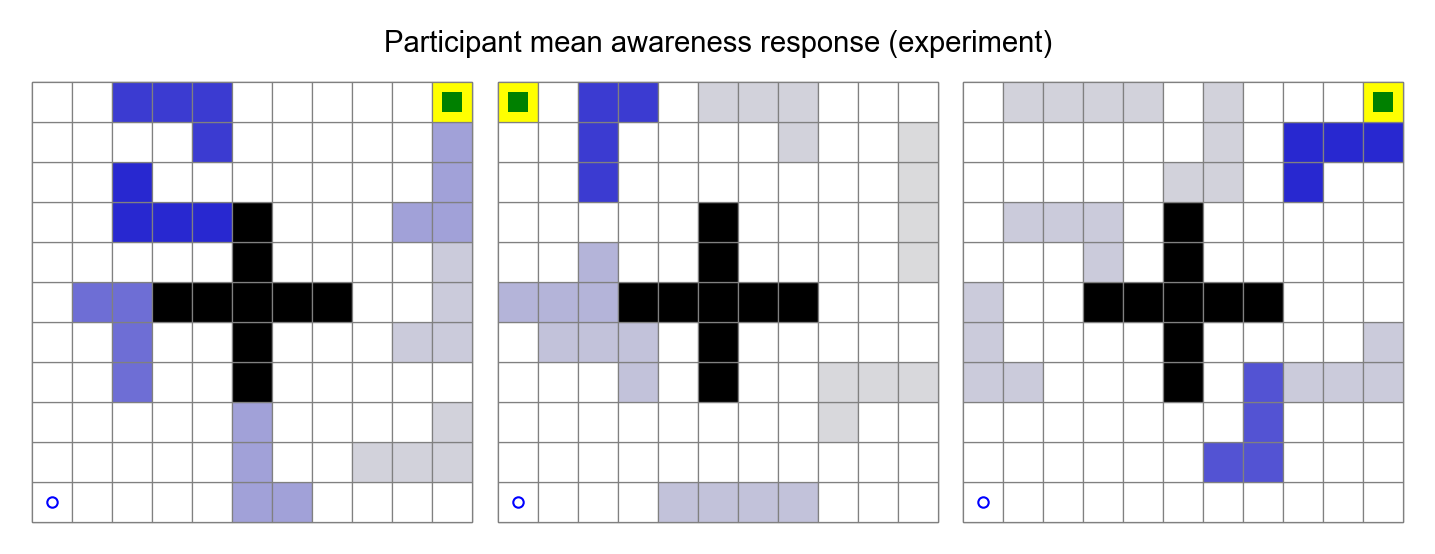
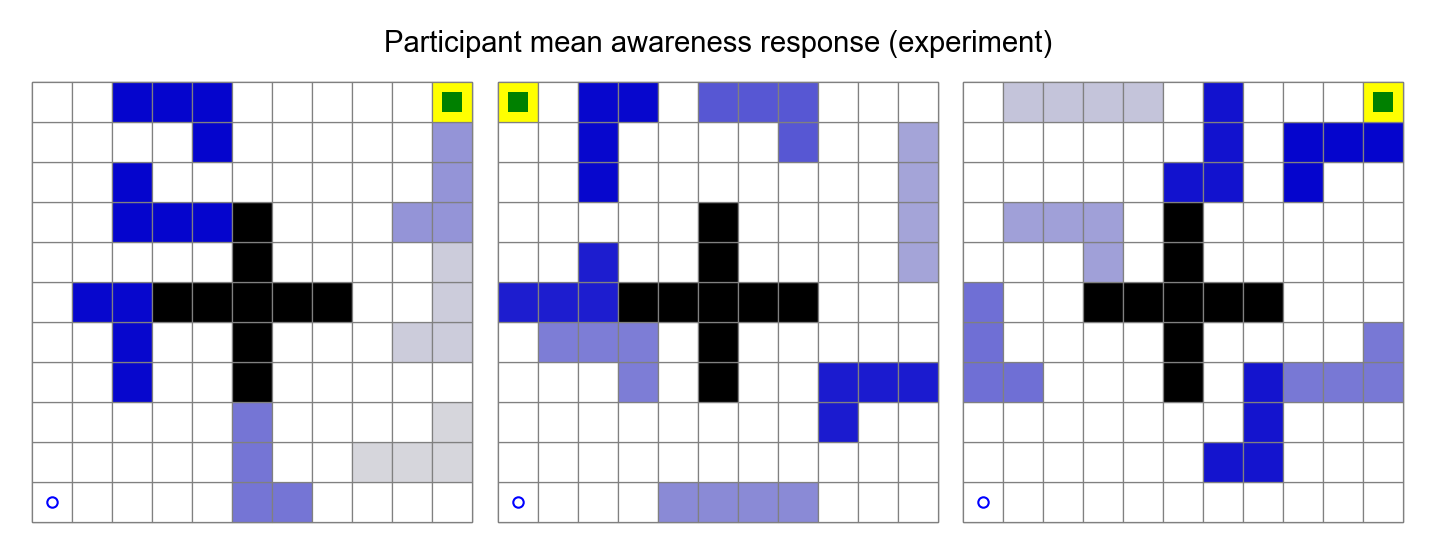
finish up project and push re-run changes

diff --git a/writeup/ho2022_replication_report.html b/writeup/ho2022_replication_report.html
@@ -57,6 +57,7 @@ ul.task-list li input[type="checkbox"] {
   <li><a href="#procedure" id="toc-procedure" class="nav-link" data-scroll-target="#procedure">Procedure</a></li>
   <li><a href="#analysis-plan" id="toc-analysis-plan" class="nav-link" data-scroll-target="#analysis-plan">Analysis Plan</a></li>
   <li><a href="#differences-from-original-study" id="toc-differences-from-original-study" class="nav-link" data-scroll-target="#differences-from-original-study">Differences from Original Study</a></li>
+  <li><a href="#methods-addendum-post-data-collection" id="toc-methods-addendum-post-data-collection" class="nav-link" data-scroll-target="#methods-addendum-post-data-collection">Methods Addendum (Post Data Collection)</a></li>
   </ul></li>
   <li><a href="#results" id="toc-results" class="nav-link" data-scroll-target="#results">Results</a>
   <ul class="collapse">
@@ -156,12 +157,17 @@ ul.task-list li input[type="checkbox"] {
 <section id="differences-from-original-study" class="level3">
 <h3 class="anchored" data-anchor-id="differences-from-original-study">Differences from Original Study</h3>
 <p>The study will be exactly the same, with the exception of a separate random sample of participants recruited on Prolific and a separate consent form.</p>
-<!-- ### Methods Addendum (Post Data Collection) -->
-<!-- You can comment this section out prior to final report with data collection. -->
-<!-- #### Actual Sample -->
-<!--   Sample size, demographics, data exclusions based on rules spelled out in analysis plan~~ -->
-<!-- #### Differences from pre-data collection methods plan -->
-<!--   Any differences from what was described as the original plan, or “none”. -->
+</section>
+<section id="methods-addendum-post-data-collection" class="level3">
+<h3 class="anchored" data-anchor-id="methods-addendum-post-data-collection">Methods Addendum (Post Data Collection)</h3>
+<section id="actual-sample" class="level4">
+<h4 class="anchored" data-anchor-id="actual-sample">Actual Sample</h4>
+<p>We ended up recruiting a sample of 100 participants. After applying data exclusions from rules spelled out in the analysis plan, we ended up with a sample size of 88 participants.</p>
+</section>
+<section id="differences-from-pre-data-collection-methods-plan" class="level4">
+<h4 class="anchored" data-anchor-id="differences-from-pre-data-collection-methods-plan">Differences from pre-data collection methods plan</h4>
+<p>none.</p>
+</section>
 </section>
 </section>
 <section id="results" class="level2">
@@ -660,19 +666,10 @@ def get_exp1_at():
         if c1 != c2:
             assert not all(exp1_at[c1] == exp1_at[c2])
     return exp1_at</code></pre>
-<!-- Data preparation following the analysis plan. -->
-<!-- ```{r include=F} -->
-<!-- ### Data Preparation -->
-<!-- #### Load Relevant Libraries and Functions -->
-<!-- #### Import data -->
-<!-- #### Data exclusion / filtering -->
-<!-- #### Prepare data for analysis - create columns etc. -->
-<!-- ``` -->
 </section>
 <section id="confirmatory-analysis" class="level3">
 <h3 class="anchored" data-anchor-id="confirmatory-analysis">Confirmatory analysis</h3>
 <p>The analysis code can be found <a href="https://github.com/markkho/value-guided-construal/blob/main/analyses/exp-1.ipynb">here</a>.</p>
-<p><em>Side-by-side graph with original graph is ideal here</em></p>
 <p><span class="math inline">\(\chi^2\)</span> test for independence:</p>
 <pre><code>from itertools import product
 import json
@@ -711,8 +708,8 @@ pval = analysisutils.pval_to_string(pval)
 exp1_chi2_res = f"$\chi^2({dof}, N={len(exp1_means)})={chi2:.2f}$, $p {pval}$, effect size $w = {chi2_effectsize_w:.2f}$"
 
 print(exp1_chi2_res)</code></pre>
-<p>Output (pilot B):</p>
-<pre><code>$\chi^2(1, N=84)=4.42$, $p = 0.036$, effect size $w = 0.23$</code></pre>
+<p>Output (replication):</p>
+<pre><code>$\chi^2(1, N=84)=23.02$, $p = 1.6 \times 10^{-6}$, effect size $w = 0.52$</code></pre>
 <p>Output (Original):</p>
 <pre><code>$\chi^2(1, N=84)=23.03$, $p = 1.6\times 10^{-6}$, effect size $w = 0.52$</code></pre>
 </section>
@@ -777,10 +774,10 @@ plt.yticks(fontname = "Arial", fontsize=7)
 plt.xticks(fontname = "Arial", fontsize=7)
 # fig.savefig("results/exp1_hist_svgc.pdf")
 # fig.set_dpi(150)</code></pre>
-<p>Output (Pilot B): <img src="mean_awareness_histogram_replication.png" class="img-fluid" alt="Image"></p>
+<p>Output (Replication): <img src="mean_awareness_histogram_replication.png" class="img-fluid" alt="Image"></p>
 <p>Output (Original): <img src="mean_awareness_histogram.png" class="img-fluid" alt="Image"></p>
 <p>Output (Model prediction): <img src="maze_awareness_predictions.png" class="img-fluid" alt="Image"></p>
-<p>Output (Pilot B): <img src="maze_awareness_responses_replication.png" class="img-fluid" alt="Image"></p>
+<p>Output (Replication): <img src="maze_awareness_responses_replication.png" class="img-fluid" alt="Image"></p>
 <p>Output (Original): <img src="maze_awareness_responses.png" class="img-fluid" alt="Image"></p>
 </section>
 </section>
@@ -788,11 +785,11 @@ plt.xticks(fontname = "Arial", fontsize=7)
 <h2 class="anchored" data-anchor-id="discussion">Discussion</h2>
 <section id="summary-of-replication-attempt" class="level3">
 <h3 class="anchored" data-anchor-id="summary-of-replication-attempt">Summary of Replication Attempt</h3>
-<p>Open the discussion section with a paragraph summarizing the primary result from the confirmatory analysis and the assessment of whether it replicated, partially replicated, or failed to replicate the original result.</p>
+<p>Our primary result was a <span class="math inline">\(\chi^2\)</span> test for independence. Specifically, the authors split the set of 84 obstacles across mazes on the basis of whether the value-guided construal model assigned a probability of less than or equal to 0.5 or greater than 0.5. They then similarly split the obstacles on the basis of whether mean awareness responses were less than or equal to 0.5 or greater than 0.5, and with the <span class="math inline">\(\chi^2\)</span> test for independence found that this split was predicted by value-guided construal <span class="math inline">\(\chi^2(1, N=84)=23.02\)</span>, <span class="math inline">\(p = 1.6 \times 10^{-6}\)</span>, effect size <span class="math inline">\(w = 0.52\)</span>. Thus, we see that the result closely replicated the original paper, suggesting that people’s responses align well with how an ideal, cognitively limited decision-maker should form value-guided construals that balance the complexity of a representation and its use for planning and acting.</p>
 </section>
 <section id="commentary" class="level3">
 <h3 class="anchored" data-anchor-id="commentary">Commentary</h3>
-<p>Add open-ended commentary (if any) reflecting (a) insights from follow-up exploratory analysis, (b) assessment of the meaning of the replication (or not) - e.g., for a failure to replicate, are the differences between original and present study ones that definitely, plausibly, or are unlikely to have been moderators of the result, and (c) discussion of any objections or challenges raised by the current and original authors about the replication attempt. None of these need to be long.</p>
+<p>In addition to our primary result, we find found that our results also closely matched the rest of the figures in figure 3 of the original paper.</p>
 </section>
 </section>
 
